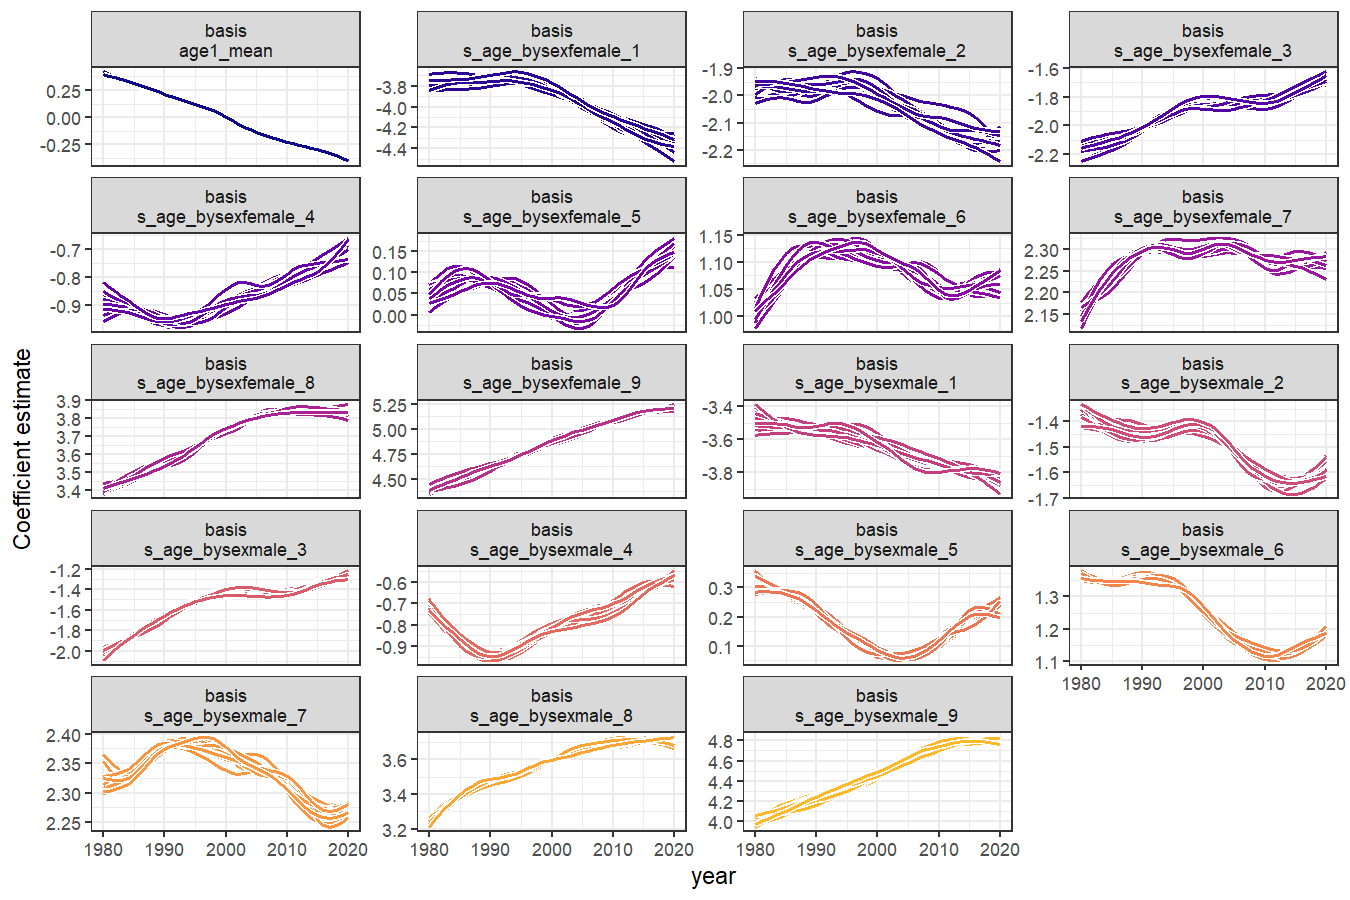
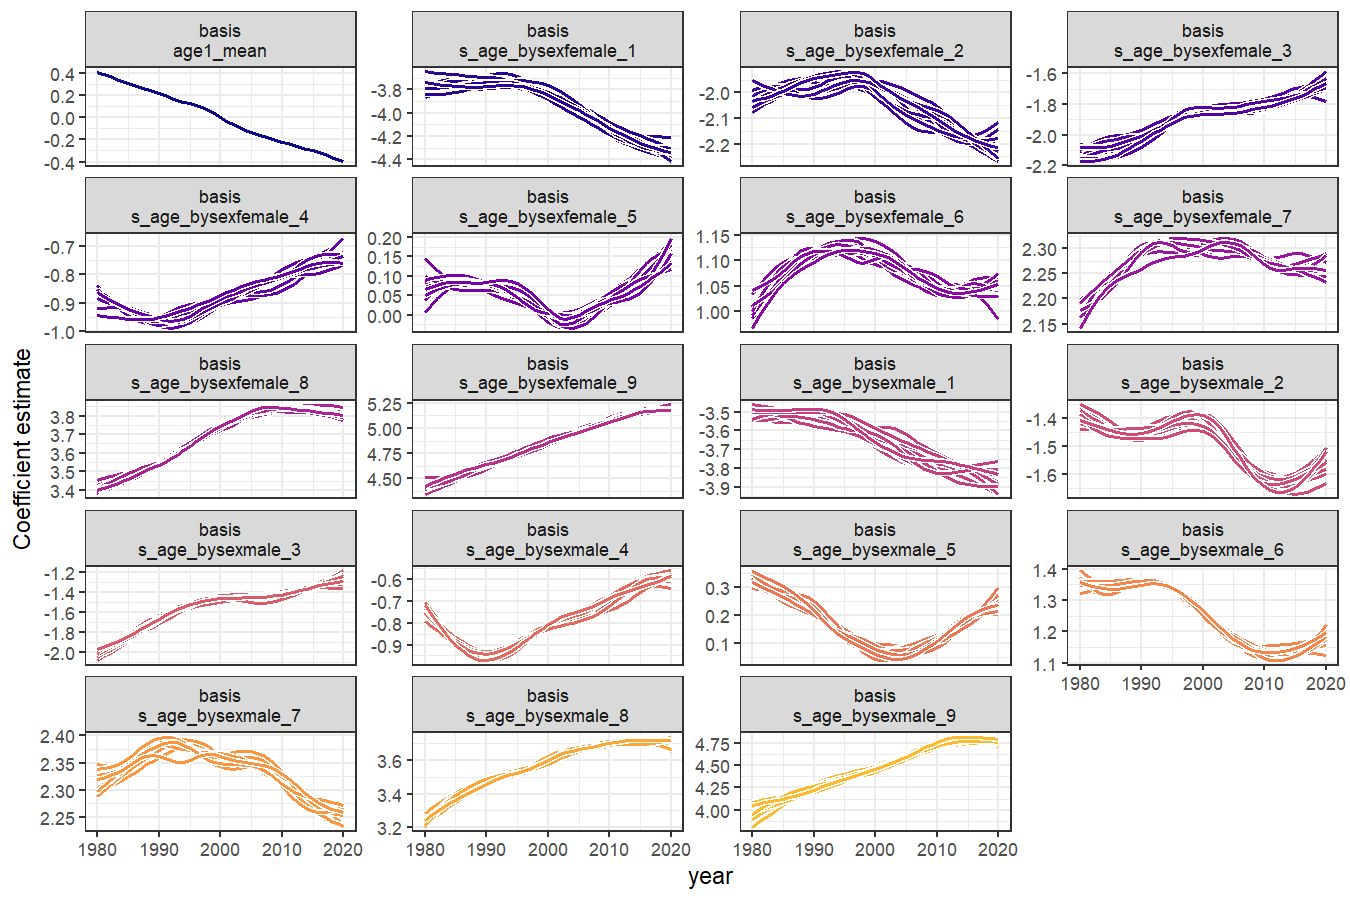
update

diff --git a/README.md b/README.md
@@ -290,16 +290,16 @@ functional_coefs
 #> # A tibble: 7,790 × 5
 #>    .basis                     .time .estimate .realisation  year
 #>    <chr>                      <int>     <dbl>        <int> <int>
-#>  1 fts_bs_s_age_bysexfemale_1  1980     -3.77            1  1980
-#>  2 fts_bs_s_age_bysexfemale_1  1981     -3.76            1  1981
-#>  3 fts_bs_s_age_bysexfemale_1  1982     -3.74            1  1982
-#>  4 fts_bs_s_age_bysexfemale_1  1983     -3.73            1  1983
-#>  5 fts_bs_s_age_bysexfemale_1  1984     -3.73            1  1984
-#>  6 fts_bs_s_age_bysexfemale_1  1985     -3.72            1  1985
-#>  7 fts_bs_s_age_bysexfemale_1  1986     -3.72            1  1986
-#>  8 fts_bs_s_age_bysexfemale_1  1987     -3.72            1  1987
+#>  1 fts_bs_s_age_bysexfemale_1  1980     -3.83            1  1980
+#>  2 fts_bs_s_age_bysexfemale_1  1981     -3.82            1  1981
+#>  3 fts_bs_s_age_bysexfemale_1  1982     -3.81            1  1982
+#>  4 fts_bs_s_age_bysexfemale_1  1983     -3.80            1  1983
+#>  5 fts_bs_s_age_bysexfemale_1  1984     -3.78            1  1984
+#>  6 fts_bs_s_age_bysexfemale_1  1985     -3.77            1  1985
+#>  7 fts_bs_s_age_bysexfemale_1  1986     -3.75            1  1986
+#>  8 fts_bs_s_age_bysexfemale_1  1987     -3.74            1  1987
 #>  9 fts_bs_s_age_bysexfemale_1  1988     -3.72            1  1988
-#> 10 fts_bs_s_age_bysexfemale_1  1989     -3.72            1  1989
+#> 10 fts_bs_s_age_bysexfemale_1  1989     -3.70            1  1989
 #> # ℹ 7,780 more rows
 ```
 
@@ -333,16 +333,16 @@ functional_fc
 #> # Key:       .basis, .realisation, .model, .rep [950]
 #>    .basis        .realisation .model .time .rep    .sim
 #>    <chr>                <int> <chr>  <dbl> <chr>  <dbl>
-#>  1 fts_age1_mean            1 ETS     2021 1     -0.415
-#>  2 fts_age1_mean            1 ETS     2022 1     -0.426
-#>  3 fts_age1_mean            1 ETS     2023 1     -0.433
-#>  4 fts_age1_mean            1 ETS     2024 1     -0.442
-#>  5 fts_age1_mean            1 ETS     2025 1     -0.451
-#>  6 fts_age1_mean            1 ETS     2021 2     -0.416
-#>  7 fts_age1_mean            1 ETS     2022 2     -0.433
-#>  8 fts_age1_mean            1 ETS     2023 2     -0.447
-#>  9 fts_age1_mean            1 ETS     2024 2     -0.457
-#> 10 fts_age1_mean            1 ETS     2025 2     -0.465
+#>  1 fts_age1_mean            1 ETS     2021 1     -0.391
+#>  2 fts_age1_mean            1 ETS     2022 1     -0.402
+#>  3 fts_age1_mean            1 ETS     2023 1     -0.414
+#>  4 fts_age1_mean            1 ETS     2024 1     -0.422
+#>  5 fts_age1_mean            1 ETS     2025 1     -0.432
+#>  6 fts_age1_mean            1 ETS     2021 2     -0.394
+#>  7 fts_age1_mean            1 ETS     2022 2     -0.409
+#>  8 fts_age1_mean            1 ETS     2023 2     -0.426
+#>  9 fts_age1_mean            1 ETS     2024 2     -0.440
+#> 10 fts_age1_mean            1 ETS     2025 2     -0.457
 #> # ℹ 4,740 more rows
 ```
 
